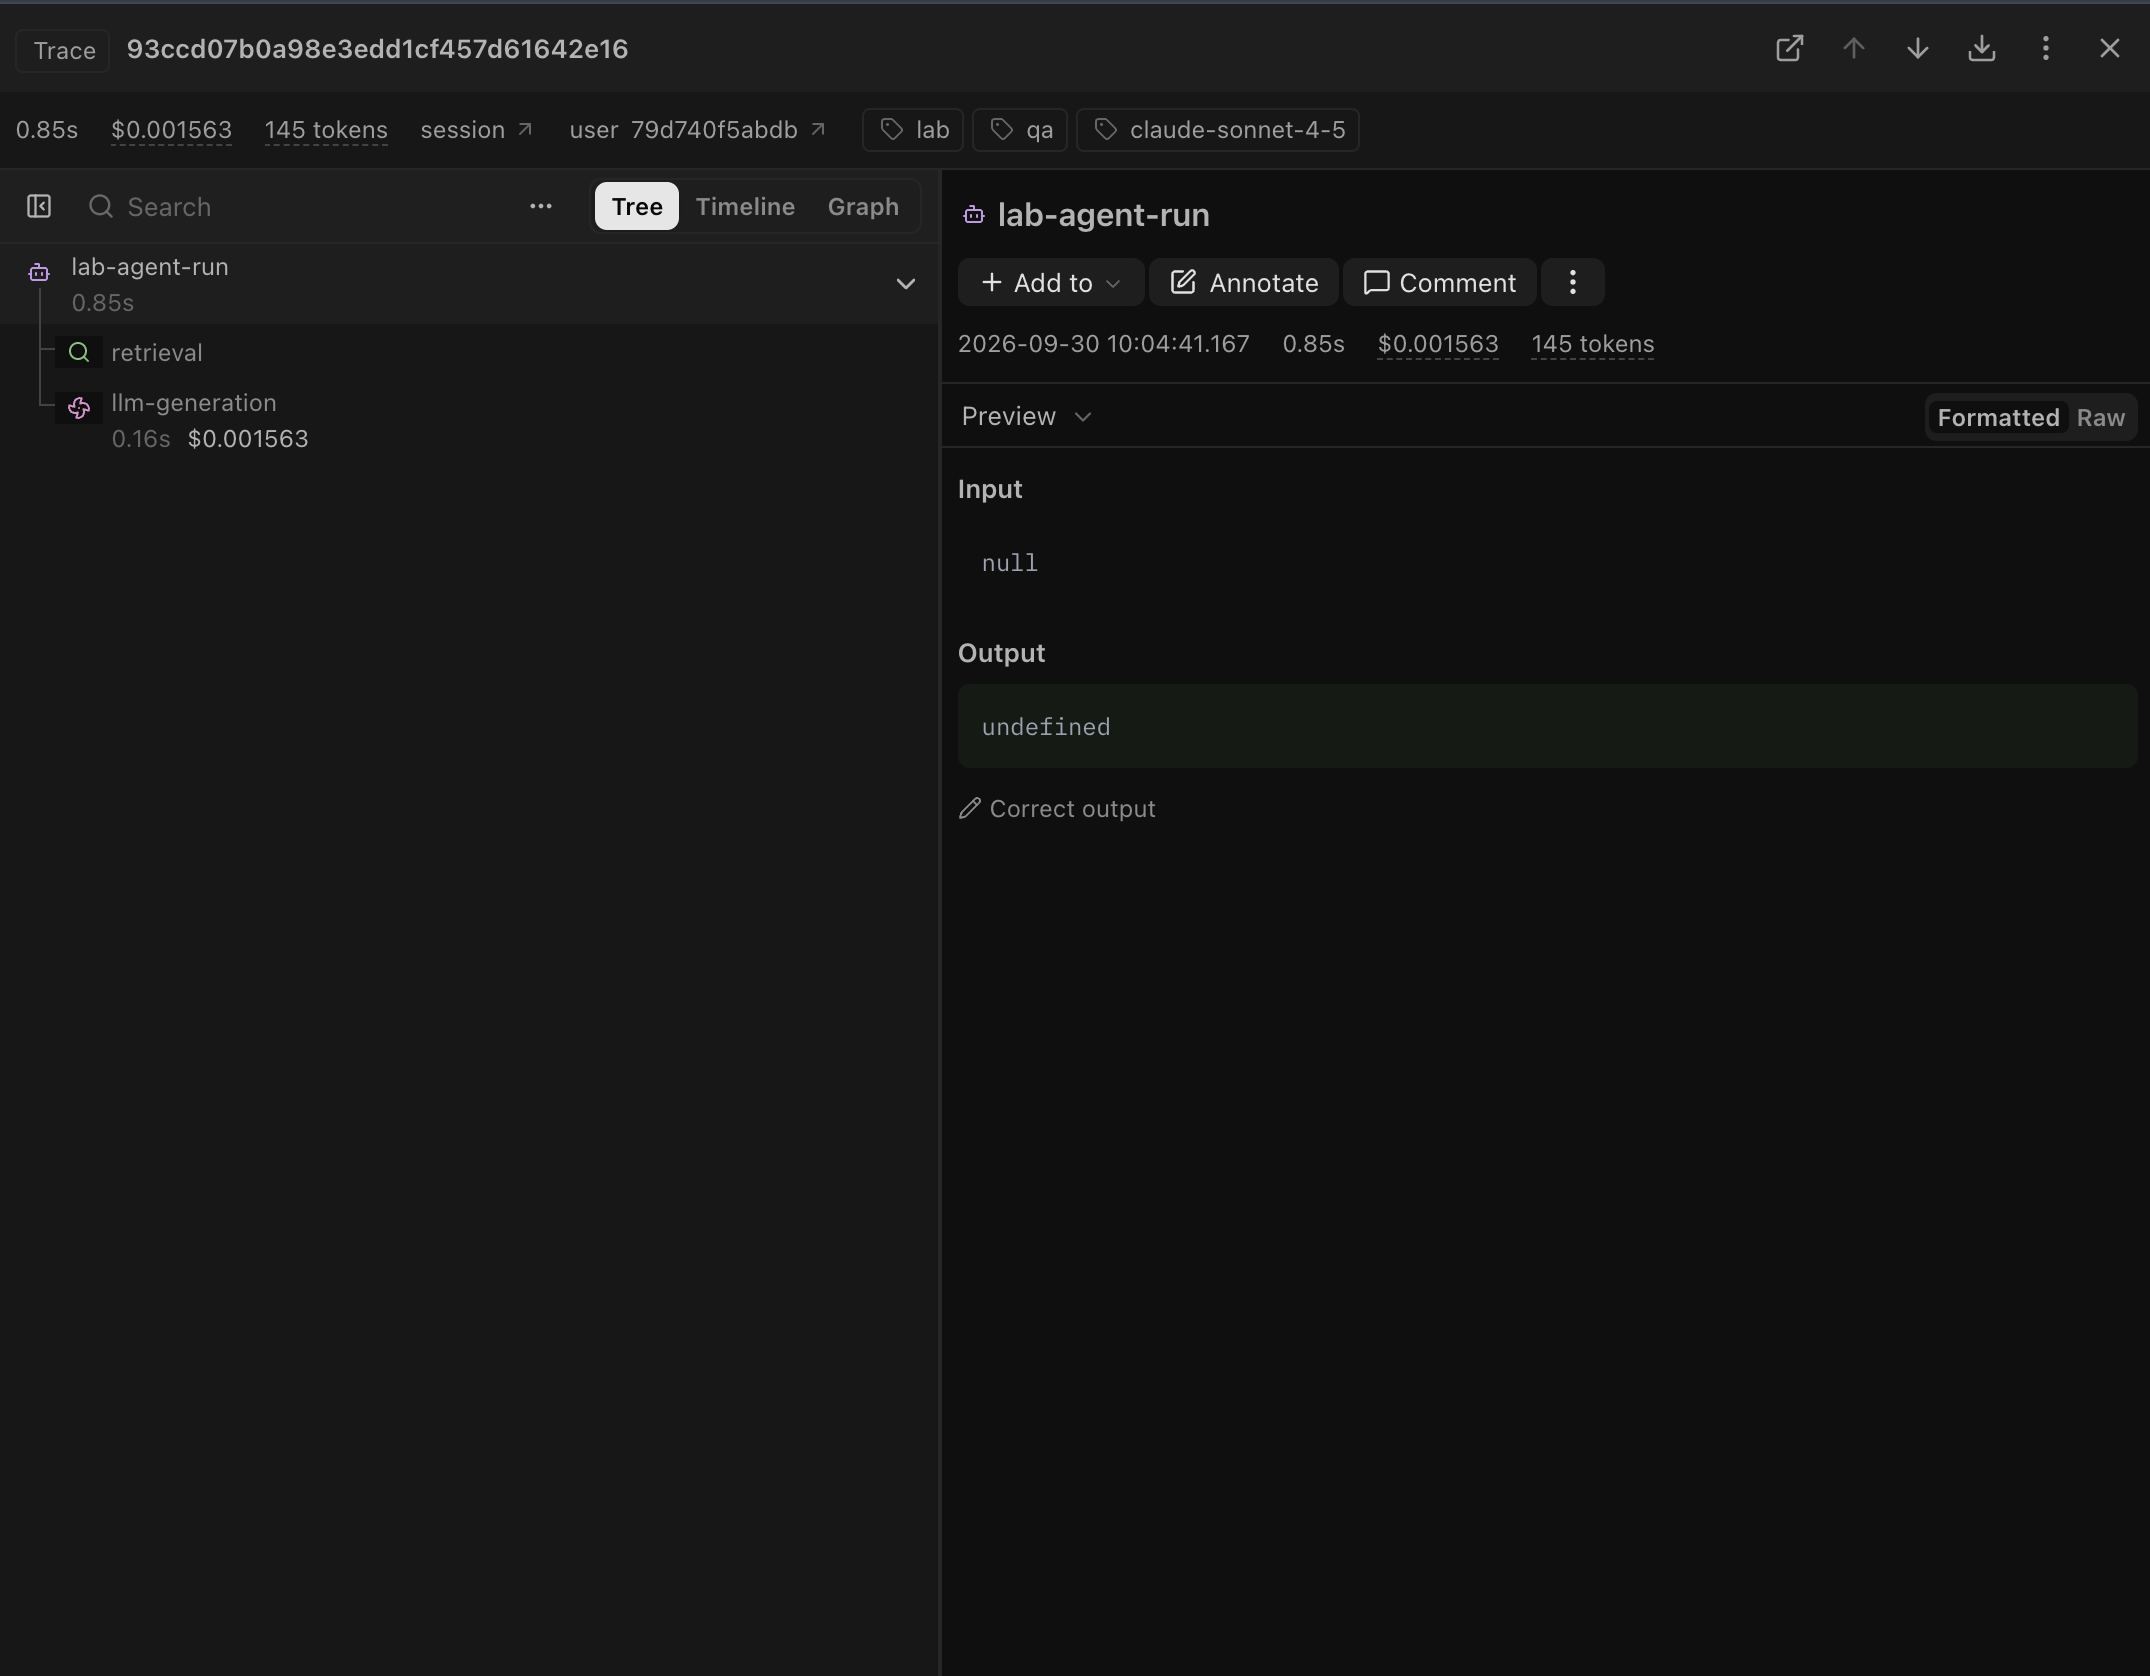
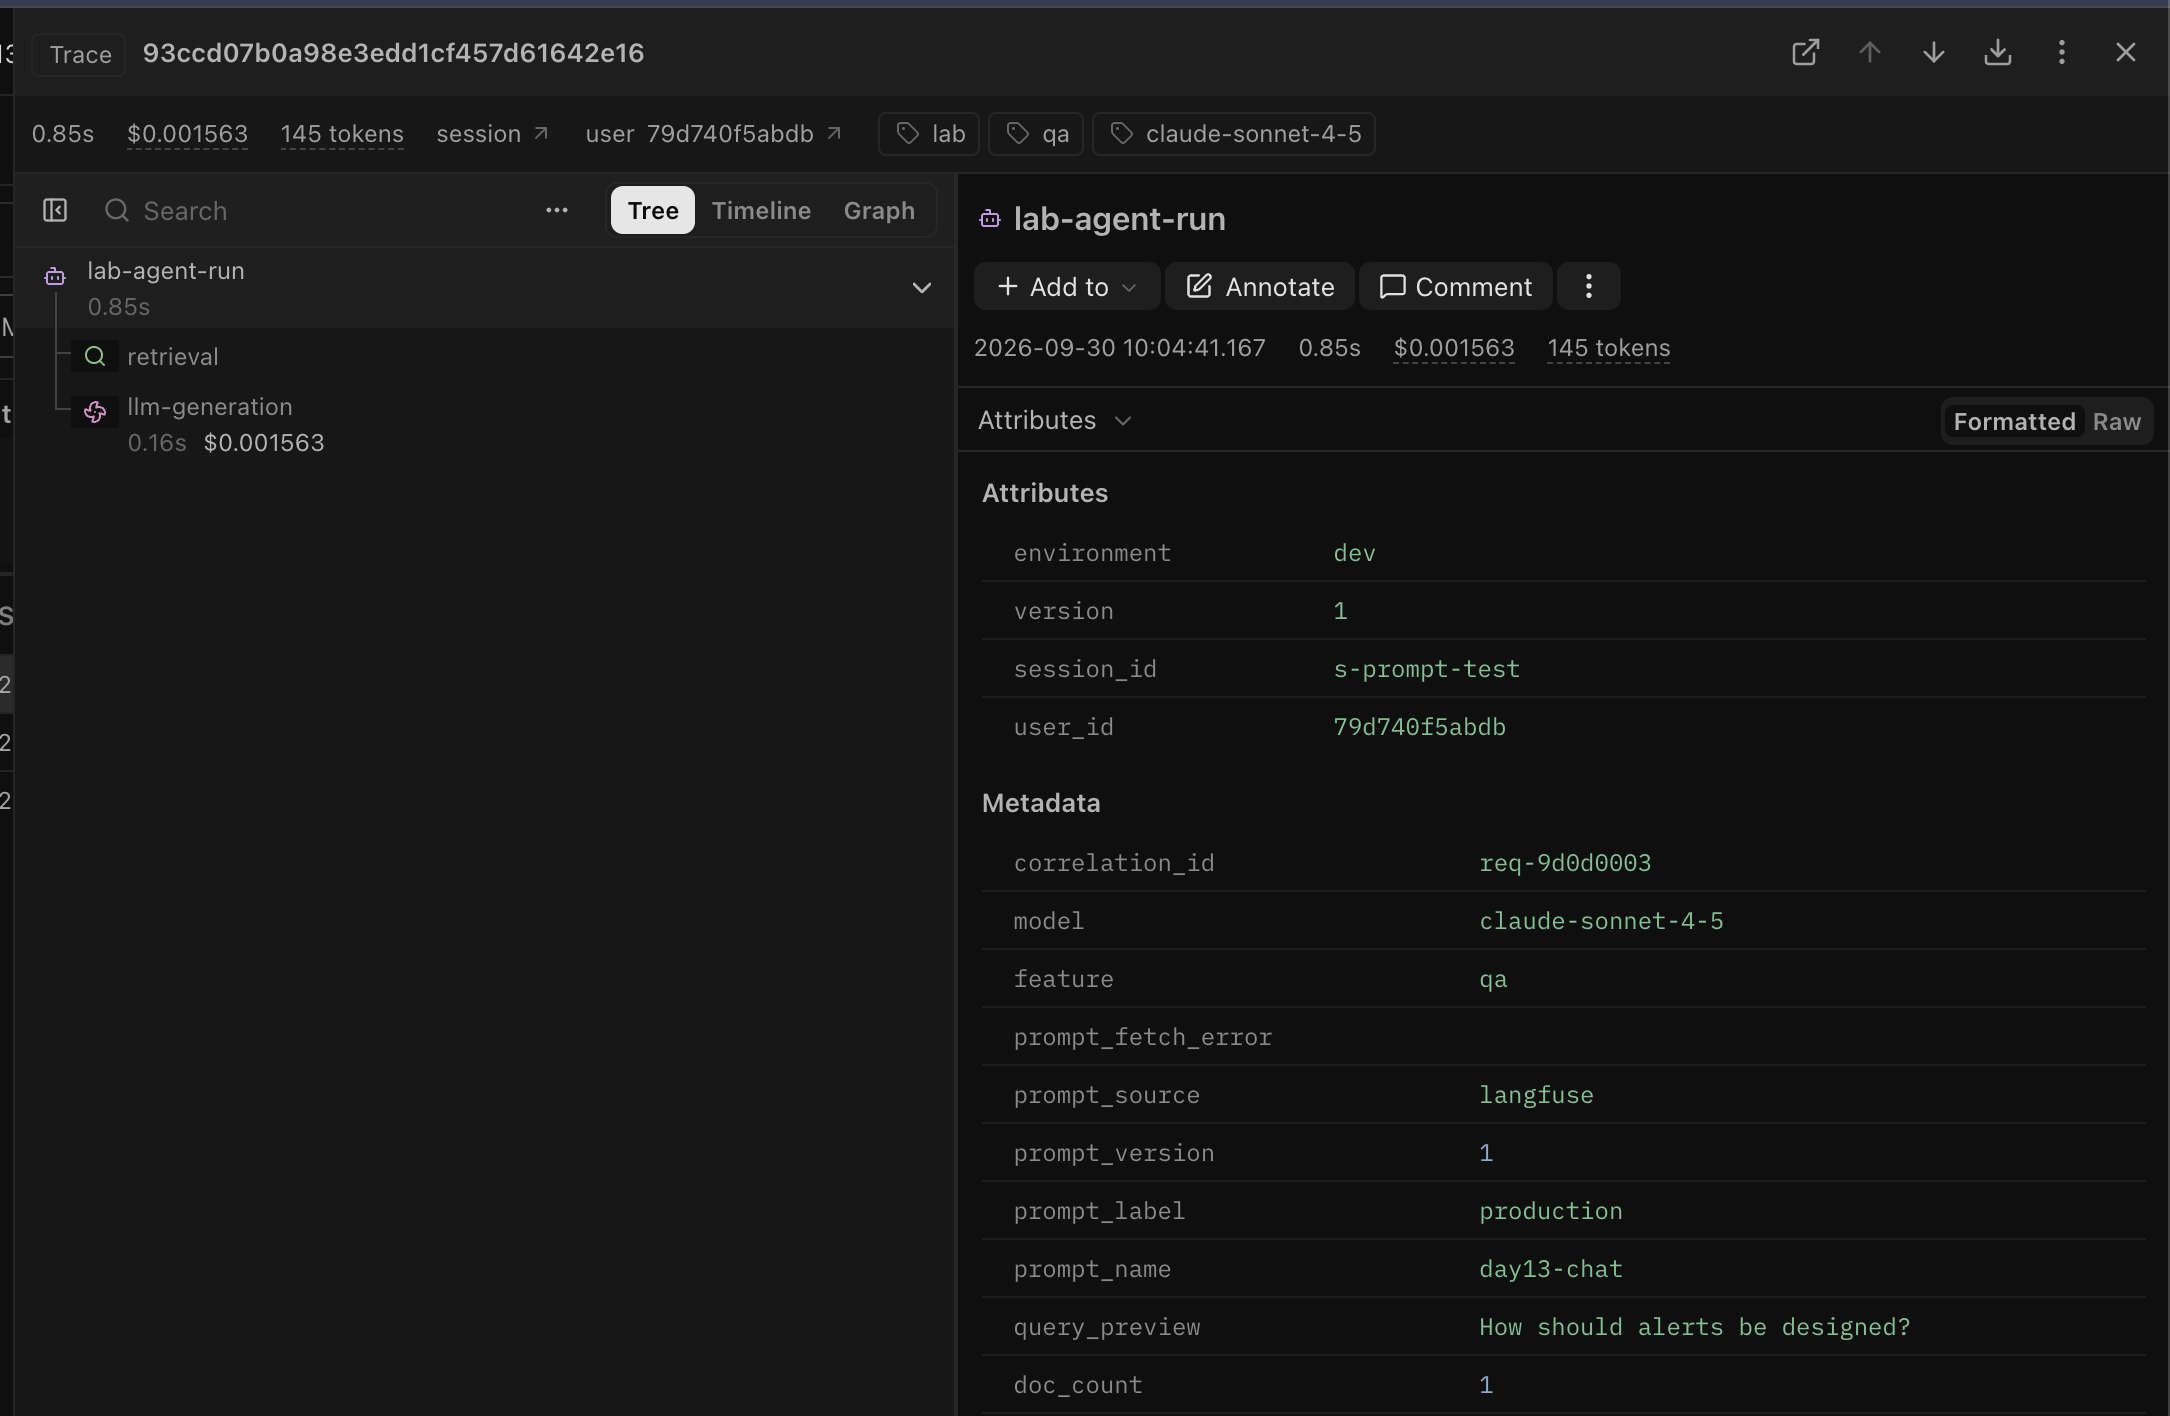
CP3: investigate official challenge; retake log, PII and trace evidence
- Report section 7: metrics -> logs -> trace chain for
  day13-k4-l3b-monitoring-llmops-v1 (retrieval span +2.5s)
- Investigation output saved as evidence text
- Retake 04 structured log, 05 PII redaction, 08 trace metadata

diff --git a/submission/REPORT.md b/submission/REPORT.md
@@ -9,7 +9,7 @@
 - **Lớp:** K4-L3B
 - **Repository URL:** https://github.com/haimi612003/K4-L3-DAY13-NguyenThiHaiMi-2A202602667-Monitoring-LLMOps
 - **Commit SHA cuối:** ⏳ _điền sau khi push commit cuối_
-- **Challenge ID:** ⏳ _điền sau khi nhận `config/challenge.json` tại CP3_
+- **Challenge ID:** `day13-k4-l3b-monitoring-llmops-v1`
 - **Tên project Langfuse cá nhân:** `day13-k4-l3b-2A202602667`
 
 ## 2. Evidence index
@@ -28,6 +28,7 @@
 | Prompt versions (đồng thời là trạng thái **trước** rollback) | [`evidence/09-prompt-versions.png`](evidence/09-prompt-versions.png) |
 | Prompt rollback (trạng thái **sau** rollback) | [`evidence/10b-after-rollback.png`](evidence/10b-after-rollback.png) |
 | Dashboard runtime | [`evidence/11-dashboard-overview.png`](evidence/11-dashboard-overview.png) |
+| Incident (toàn bộ output điều tra) | [`evidence/12-14-incident-investigation.txt`](evidence/12-14-incident-investigation.txt) |
 | Incident metric | `evidence/12-incident-metric.png` ⏳ |
 | Incident log | `evidence/13-incident-log.png` ⏳ |
 | Incident trace | `evidence/14-incident-trace.png` ⏳ |
@@ -84,16 +85,14 @@
 
 ## 7. Điều tra challenge
 
-⏳ **Chờ Lab Coach gửi `config/challenge.json` tại CP3.** Các trường dưới đây sẽ được điền bằng evidence của challenge chính thức.
-
-- **Challenge ID:**
-- **Khoảng thời gian điều tra:**
-- **Triệu chứng từ metrics:**
-- **Log line và correlation ID liên quan:**
-- **Trace ID và span gây ảnh hưởng:**
-- **Root cause:**
-- **Fix action:**
-- **Preventive measure:**
+- **Challenge ID:** `day13-k4-l3b-monitoring-llmops-v1` (cohort K4, seed 1312, 5 query feature `monitoring`, `latency_threshold_ms` 2000). Chạy `python scripts/inject_incident.py` rồi `python scripts/load_test.py --challenge --concurrency 5`. Toàn bộ output: [`evidence/12-14-incident-investigation.txt`](evidence/12-14-incident-investigation.txt).
+- **Khoảng thời gian điều tra:** 10:39:57–10:40:51 (UTC+7) ngày 30/09/2026 — từ lúc bật challenge đến lúc tắt và xác nhận hồi phục. Mốc so sánh: workload bình thường lúc 10:38:56.
+- **Triệu chứng từ metrics:** panel Latency: P95 tăng từ **160 ms → 2671 ms** (×16.7), vượt `latency_threshold_ms` 2000 của challenge và ngưỡng alert `HighLatencyP95` (2000 ms). Trong khi đó **TTFT P95 giữ nguyên 54–55 ms**, error rate 0%, retrieval success 100%, cost/request 0.0020 → 0.0023 USD (không đáng kể) → chỉ có latency xấu đi và phần chậm nằm **trước** bước generation.
+- **Log line và correlation ID liên quan:** cả 5 dòng `response_sent` của challenge có `latency_ms` 2663–2671, `ttft_ms` 51–54, `tool_success=true`. Dòng đại diện: `{"event": "response_sent", "correlation_id": "req-0032e323", "feature": "monitoring", "session_id": "k4-l3b-challenge-s02", "latency_ms": 2663, "ttft_ms": 51, "tool_success": true, "ts": "2026-09-30T03:40:00.024892Z"}`.
+- **Trace ID và span gây ảnh hưởng:** trace `2d2149eb9fe4b135c6e0d692a570531b` (metadata `correlation_id=req-0032e323`): `lab-agent-run` 2.664 s = **`retrieval` 2.506 s (94%)** + `llm-generation` 0.156 s. So với trace bình thường `d101572bdb7e42fb53a702aa91866635` (`req-4eea3501`): retrieval ~0 s, generation 0.152 s. Generation, TTFT và `prompt_version=1` giống hệt baseline; 4 trace còn lại của challenge đều có retrieval 2.508–2.516 s.
+- **Root cause:** bước retrieval (vector store/RAG) bị chậm thêm ~2.5 s mỗi lần gọi (sự cố `rag_slow` được challenge inject vào retrieval). Không phải do LLM (generation/TTFT không đổi), không phải do prompt (vẫn v1, không có thay đổi label trong khoảng này), không phải do tải (5 request, P50 cũng tăng như P95). Kiểm tra thêm khi sự cố còn bật: request `feature=qa` (`req-5c0be001`) cũng mất 2662 ms → retrieval chậm với **mọi** feature, `monitoring` bị ảnh hưởng vì là traffic của challenge.
+- **Fix action:** khôi phục retrieval bằng `python scripts/inject_incident.py --disable` (tương đương rollback/khởi động lại vector store). Xác nhận bằng chính 5 query challenge: latency còn **156.6–164.7 ms**, về đúng baseline.
+- **Preventive measure:** (1) alert `HighLatencyP95` > 2000 ms trong 5 phút (đã có trong [`config/alert_rules.yaml`](../config/alert_rules.yaml)) + runbook bước "TTFT không đổi → kiểm tra span retrieval"; (2) thêm SLI riêng cho span `retrieval` (ví dụ P95 > 500 ms) để cảnh báo đúng thành phần trước khi ảnh hưởng tổng latency; (3) đặt timeout ~1 s cho retrieval và fallback trả lời với context chung/cache thay vì để người dùng chờ; (4) chạy practice `rag_slow` trong CI/staging để kiểm tra alert và runbook còn hoạt động.
 
 ### Luyện tập trước CP3 (practice scenario, không phải challenge chính thức)
 
@@ -114,7 +113,7 @@ Practice `tool_fail`: log `request_failed` `req-e0000001` (`error_type=RuntimeEr
 - **Cách hiểu luồng Metrics → Logs → Traces:** metrics trả lời *có vấn đề gì và từ khi nào* (P95 tăng, TTFT không đổi); logs trả lời *request nào bị ảnh hưởng* (lọc `latency_ms` cao, lấy `correlation_id`); trace trả lời *bước nào gây ra* (so sánh duration/level của `retrieval` và `llm-generation`). `correlation_id` là khóa nối log với trace; thiếu nó thì chỉ đoán được.
 - **Vai trò của prompt version, token/cost, SLO hoặc rollback trong vận hành LLM:** prompt là một phần của "code" nhưng thay đổi được mà không deploy, nên mỗi trace phải ghi `prompt_name/label/version` để biết request dùng prompt nào. Ví dụ ở đây v2 làm `tokens_in` tăng 51 → 72 (+41%) — nếu cost/latency xấu đi thì rollback chỉ là chuyển label `production`, không cần sửa code. SLO + error budget cho biết khi nào được phép thử prompt mới và khi nào phải dừng.
 - **Điều quan trọng nhất đã học:** validator 100/100 không có nghĩa hệ thống quan sát được đúng — phải kiểm tra trực tiếp trên Langfuse mới phát hiện trace bị mất khi shutdown, và phải chạy thử incident mới thấy ngưỡng alert 3000 ms không bắt được `rag_slow`.
-- **Hạn chế hoặc phần chưa hoàn thành, nếu có:** challenge chính thức (CP3) chờ Lab Coach gửi file. Quality score vẫn là heuristic (FakeLLM trả câu trả lời cố định). Dashboard là dashboard local đọc file JSONL, alert chưa được gửi tự động lên Slack.
+- **Hạn chế hoặc phần chưa hoàn thành, nếu có:** Quality score vẫn là heuristic (FakeLLM trả câu trả lời cố định). Dashboard là dashboard local đọc file JSONL, alert chưa được gửi tự động lên Slack.
 
 ## 9. Checklist trước khi nộp
 
